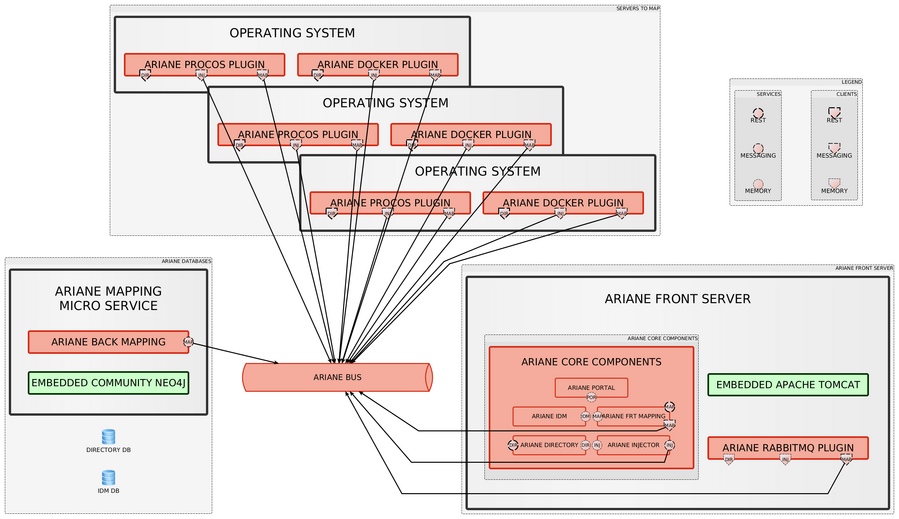
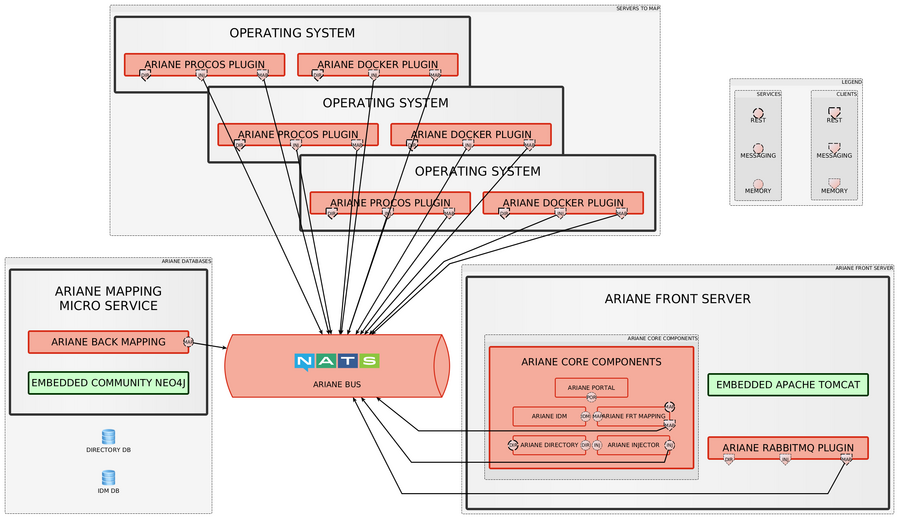
up ariane / nats blog post

Changed region(s): [[0.218, 0.3083, 0.5295, 0.894], [0.2492, 0.2466, 0.2803, 0.3391], [0.5295, 0.3391, 0.5606, 0.4008]]

diff --git a/content/blog/ariane-mapping-microservice-with-nats.md b/content/blog/ariane-mapping-microservice-with-nats.md
@@ -3,7 +3,7 @@ date = "2016-08-01T10:08:07Z"
 draft = false
 title = "How Ariane is moving from monolith to microservices with NATS"
 categories = ["Engineering"]
-tags = ["nats","ariane","community","microservice","nanoservice","transactions","JMS","0MQ","RabbitMQ"]
+tags = ["nats","ariane","community","microservice","nanoservice","transactions","RabbitMQ"]
 author = "Mathilde Ffrench"
 +++
 
@@ -28,9 +28,9 @@ Then the user will request the Ariane web server to get the map - or the technic
 
 Currently three open source plugins has been written as proof of concept : 
 
-* the RabbitMQ plugin which allow you to map RabbitMQ clusters, resources and connected applications
-* the ProcOS plugin which allow you to map the process running inside your operating system and their connections
-* the Docker plugin which allow you to map the Docker containers running inside your operating system and their connections
+* the [RabbitMQ plugin](https://github.com/echinopsii/net.echinopsii.ariane.community.plugin.rabbitmq) which allow you to map RabbitMQ clusters, resources and connected applications
+* the [ProcOS plugin](https://github.com/echinopsii/net.echinopsii.ariane.community.plugin.procos) which allow you to map the process running inside your operating system and their connections
+* the [Docker plugin](https://github.com/echinopsii/net.echinopsii.ariane.community.plugin.docker) which allow you to map the Docker containers running inside your operating system and their connections
 
 Bellow the result map of the Ariane application mapping ([full picture](https://t.co/LlP9zJOKNy)) :
 
